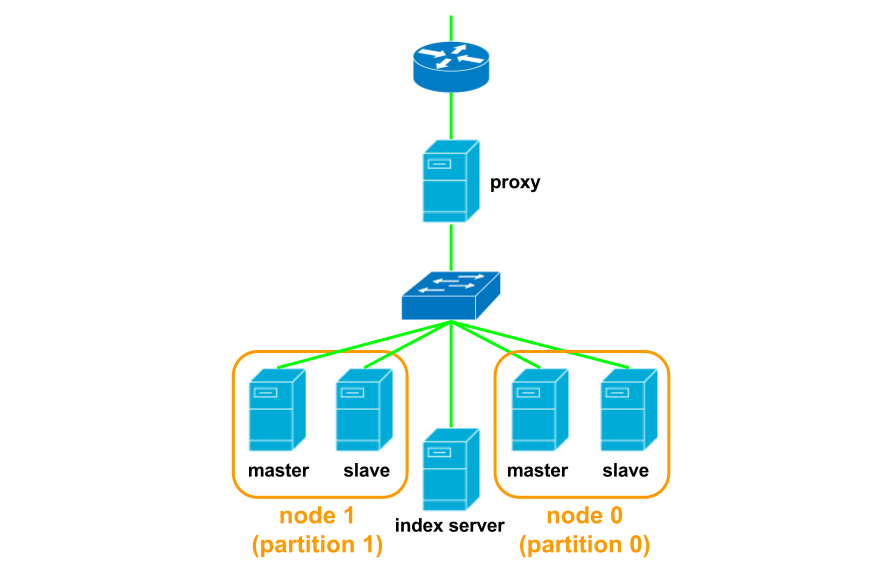
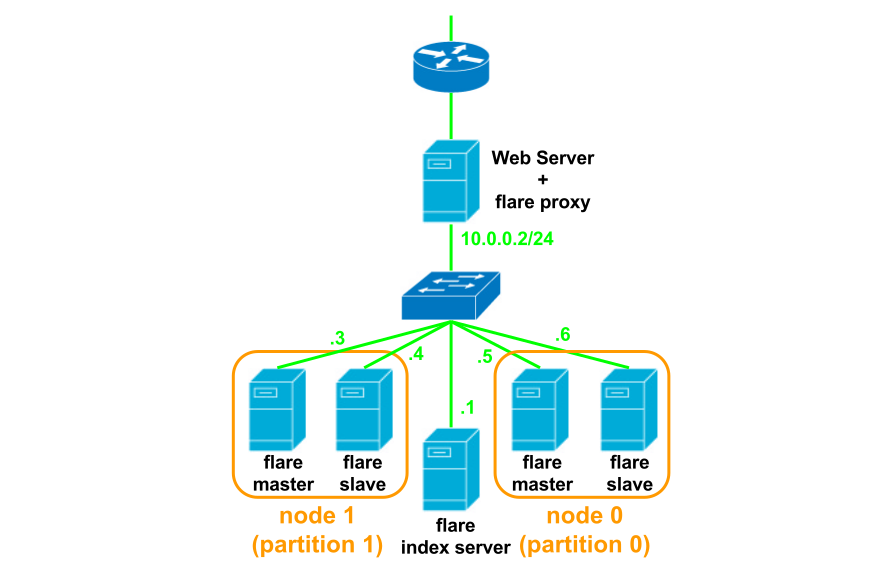
Modify png figure and usages about host name.

diff --git a/USAGE.md b/USAGE.md
@@ -1,5 +1,9 @@
 # How To Use
+
 ## Node setting
+**Normally, use [Flare-tools](https://github.com/gree/flare-tools) to maintain flare by command line.**  
+
+
 First of all, you should access index server (flarei) by `telnet`.
 ```
 $ telnet [index server] [index server port]
@@ -38,7 +42,7 @@ get [key name] [index] [index]
 ```
 
 ## Example
-For example, we introduce how to build flare as the figure below indicates:  
+For example, we introduce how to build flare cluster as the figure below indicates:  
 ![sample_image](flare_sample.png)
 - two master node
   - Only master exec write request
@@ -65,8 +69,8 @@ max-connection = 256
 monitor-threshold = 3
 # node monitoring interval (index server sends "ping" w/ this interval)
 monitor-interval = 1
-# server name of myself
-server-name = index.example.com
+# server name of myself (IP address is preferred)
+server-name = 10.0.0.1
 # server port of myself
 server-port = 12120
 # max thread pool size
@@ -88,7 +92,7 @@ Create config file `/etc/flared.conf` at each server as below.
 # data directory
 data-dir = /home/flared
 # name and port of index server (sync this to "server-name" of flarei.conf at index server)
-index-servers = index.example.com:12120
+index-servers = 10.0.0.1:12120
 # syslog facility
 log-facility = local1
 # max-connections to accept
@@ -97,8 +101,8 @@ max-connection = 256
 mutex-slot = 32
 # number of proxy request concurrency
 proxy-concurrency = 2
-# server name of myself
-server-name = master.node0.example.com
+# server name of myself (IP address is preferred)
+server-name = 10.0.0.5
 # server port of myself
 server-port = 12121
 # storage type (currently only "tch" is available)
@@ -126,7 +130,7 @@ $ sudo /usr/local/bin/flared -f /etc/flared.conf --daemonize -p /var/run/flared.
 ### Configure node setting
 Connect index server by `telnet` as below.
 ```
-$ telnet index.example.com 12120
+$ telnet 10.0.0.1 12120
 ```
 and check node states by `stats` command.
 ```
@@ -134,40 +138,40 @@ stats nodes
 ```
 The result will be printed as below.
 ```
-STAT master.node0.example.com:12121:role proxy
-STAT master.node0.example.com:12121:state active
-STAT master.node0.example.com:12121:partition -1
-STAT master.node0.example.com:12121:balance 0
-STAT master.node0.example.com:12121:thread_type 16
-STAT slave.node0.example.com:12121:role proxy
-STAT slave.node0.example.com:12121:state active
-STAT slave.node0.example.com:12121:partition -1
-STAT slave.node0.example.com:12121:balance 0
-STAT slave.node0.example.com:12121:thread_type 17
-STAT master.node1.example.com:12121:role proxy
-STAT master.node1.example.com:12121:state active
-STAT master.node1.example.com:12121:partition -1
-STAT master.node1.example.com:12121:balance 0
-STAT master.node1.example.com:12121:thread_type 19
-STAT slave.node1.example.com:12121:role proxy
-STAT slave.node1.example.com:12121:state active
-STAT slave.node1.example.com:12121:partition -1
-STAT slave.node1.example.com:12121:balance 0
-STAT slave.node1.example.com:12121:thread_type 18
-STAT proxy.example.com:12121:role proxy
-STAT proxy.example.com:12121:state active
-STAT proxy.example.com:12121:partition -1
-STAT proxy.example.com:12121:balance 0
-STAT proxy.example.com:12121:thread_type 20
+STAT 10.0.0.2:12121:role proxy
+STAT 10.0.0.2:12121:state active
+STAT 10.0.0.2:12121:partition -1
+STAT 10.0.0.2:12121:balance 0
+STAT 10.0.0.2:12121:thread_type 20
+STAT 10.0.0.3:12121:role proxy
+STAT 10.0.0.3:12121:state active
+STAT 10.0.0.3:12121:partition -1
+STAT 10.0.0.3:12121:balance 0
+STAT 10.0.0.3:12121:thread_type 19
+STAT 10.0.0.4:12121:role proxy
+STAT 10.0.0.4:12121:state active
+STAT 10.0.0.4:12121:partition -1
+STAT 10.0.0.4:12121:balance 0
+STAT 10.0.0.4:12121:thread_type 18
+STAT 10.0.0.5:12121:role proxy
+STAT 10.0.0.5:12121:state active
+STAT 10.0.0.5:12121:partition -1
+STAT 10.0.0.5:12121:balance 0
+STAT 10.0.0.5:12121:thread_type 16
+STAT 10.0.0.6:12121:role proxy
+STAT 10.0.0.6:12121:state active
+STAT 10.0.0.6:12121:partition -1
+STAT 10.0.0.6:12121:balance 0
+STAT 10.0.0.6:12121:thread_type 17
 END
 ```
 When you start flared for the first time, all node will treated as proxy.  
 So you should give role to each node by `node role` command.
 ```
-node role master.node0.example.com 12121 master 1 0
-node role slave.node0.example.com 12121 slave 0 0
-node role master.node1.example.com 12121 master 1 1
-node role slave.node1.example.com 12121 slave 0 1
+node role 10.0.0.5 12121 master 1 0
+node role 10.0.0.6 12121 slave 0 0
+node role 10.0.0.3 12121 master 1 1
+node role 10.0.0.4 12121 slave 0 1
 ```
 and check node states.
 ```
@@ -175,31 +179,31 @@ stats nodes
 ```
 The result:
 ```
-STAT master.node0.example.com:12121:role master
-STAT master.node0.example.com:12121:state active
-STAT master.node0.example.com:12121:partition 0
-STAT master.node0.example.com:12121:balance 1
-STAT master.node0.example.com:12121:thread_type 16
-STAT slave.node0.example.com:12121:role slave
-STAT slave.node0.example.com:12121:state active
-STAT slave.node0.example.com:12121:partition 0
-STAT slave.node0.example.com:12121:balance 0
-STAT slave.node0.example.com:12121:thread_type 17
-STAT master.node1.example.com:12121:role master
-STAT master.node1.example.com:12121:state active
-STAT master.node1.example.com:12121:partition 1
-STAT master.node1.example.com:12121:balance 1
-STAT master.node1.example.com:12121:thread_type 19
-STAT slave.node1.example.com:12121:role slave
-STAT slave.node1.example.com:12121:state active
-STAT slave.node1.example.com:12121:partition 1
-STAT slave.node1.example.com:12121:balance 0
-STAT slave.node1.example.com:12121:thread_type 18
-STAT proxy.example.com:12121:role proxy
-STAT proxy.example.com:12121:state active
-STAT proxy.example.com:12121:partition -1
-STAT proxy.example.com:12121:balance 0
-STAT proxy.example.com:12121:thread_type 20
+STAT 10.0.0.2:12121:role proxy
+STAT 10.0.0.2:12121:state active
+STAT 10.0.0.2:12121:partition -1
+STAT 10.0.0.2:12121:balance 0
+STAT 10.0.0.2:12121:thread_type 20
+STAT 10.0.0.3:12121:role master
+STAT 10.0.0.3:12121:state active
+STAT 10.0.0.3:12121:partition 1
+STAT 10.0.0.3:12121:balance 1
+STAT 10.0.0.3:12121:thread_type 19
+STAT 10.0.0.4:12121:role slave
+STAT 10.0.0.4:12121:state active
+STAT 10.0.0.4:12121:partition 1
+STAT 10.0.0.4:12121:balance 0
+STAT 10.0.0.4:12121:thread_type 18
+STAT 10.0.0.5:12121:role master
+STAT 10.0.0.5:12121:state active
+STAT 10.0.0.5:12121:partition 0
+STAT 10.0.0.5:12121:balance 1
+STAT 10.0.0.5:12121:thread_type 16
+STAT 10.0.0.6:12121:role slave
+STAT 10.0.0.6:12121:state active
+STAT 10.0.0.6:12121:partition 0
+STAT 10.0.0.6:12121:balance 0
+STAT 10.0.0.6:12121:thread_type 17
 END
 ```
 Now, `balance` parametor of slave servers is `0`.  
@@ -207,13 +211,13 @@ If this parametor is `0`, no request goes to the node.
 But we want to execute read request on slave server.  
 So, we set `balance` parametor to `1`, and devide read requests into halves for master and slave.
 ```
-node role slave.node0.example.com 12121 slave 1 0
-node role slave.node1.example.com 12121 slave 1 1
+node role 10.0.0.6 12121 slave 1 0
+node role 10.0.0.4 12121 slave 1 1
 ```
 Now, all configuration has been finished.  
 Let's use flare.
 ```
-$ telnet proxy.example.com 12121
+$ telnet 10.0.0.2 12121
 ```
 Set a key for test.
 ```
